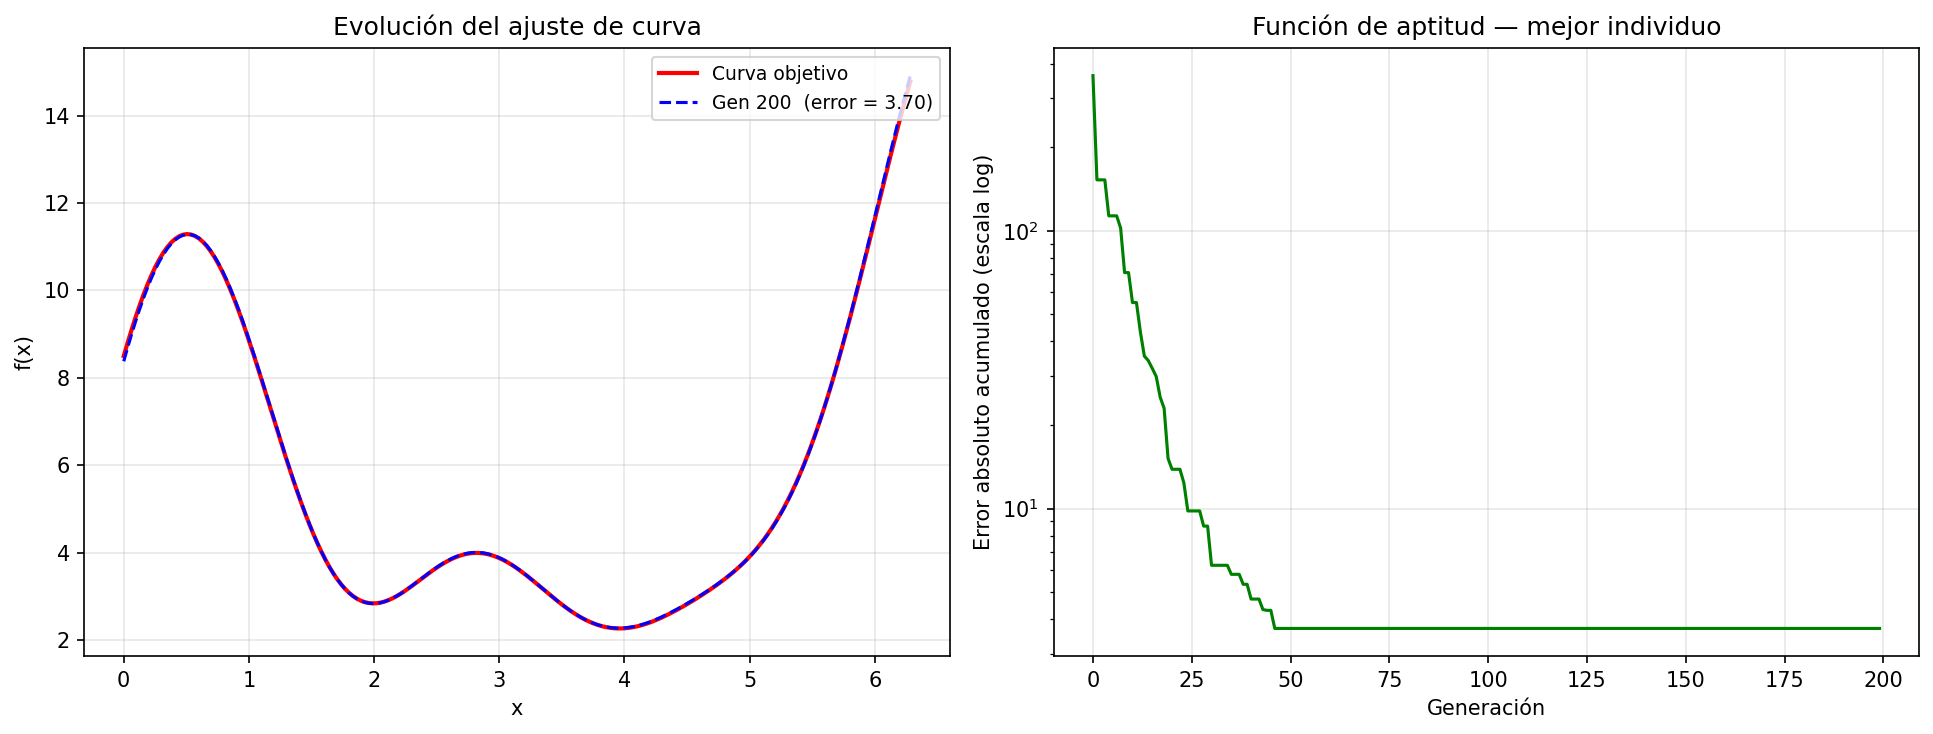
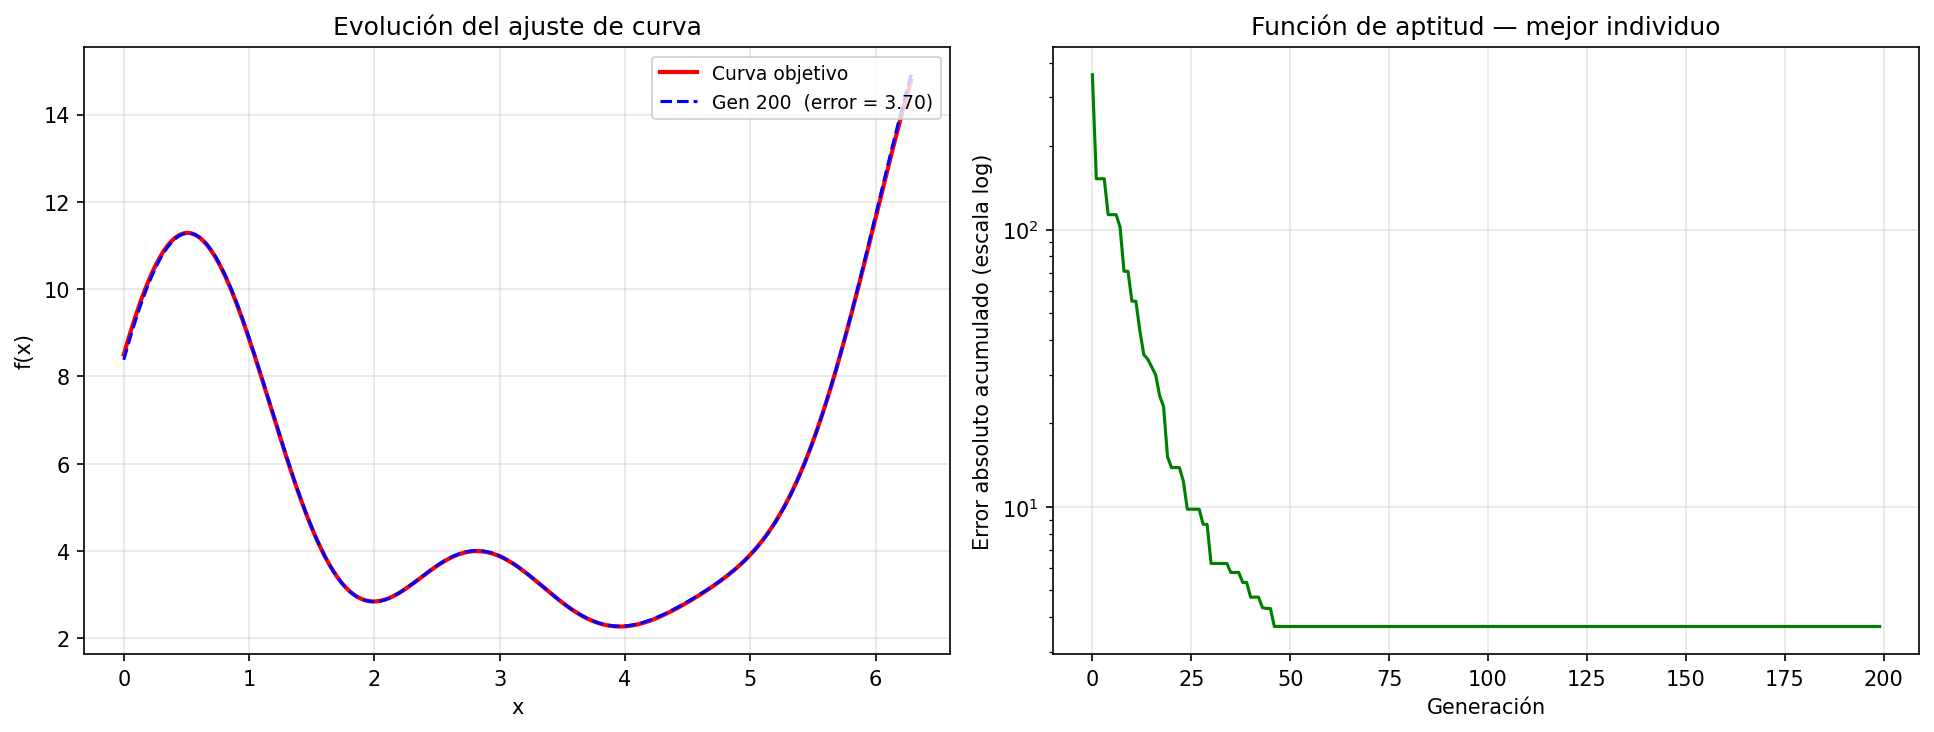
Actualizacion, 2a. corrida

diff --git a/ag_ajuste_curva.py b/ag_ajuste_curva.py
@@ -23,7 +23,6 @@ Operadores implementados:
 
 import numpy as np
 import matplotlib.pyplot as plt
-import matplotlib.gridspec as gridspec
 
 # ═══════════════════════════════════════════════════════════════════
 #  CONFIGURACIÓN
@@ -167,11 +166,14 @@ def ejecutar_ag():
 
     historial = []          # aptitud del mejor individuo por generación
 
-    # ── Figura ────────────────────────────────────────────────────
-    fig = plt.figure(figsize=(13, 5))
-    gs  = gridspec.GridSpec(1, 2, figure=fig)
-    ax1 = fig.add_subplot(gs[0])    # panel izquierdo:  ajuste de curva
-    ax2 = fig.add_subplot(gs[1])    # panel derecho:    función de aptitud
+    # ── Ventana 1: ajuste de curva ────────────────────────────────
+    fig1, ax1 = plt.subplots(figsize=(7, 5))
+    fig1.canvas.manager.set_window_title('Ventana 1 — Ajuste de curva')
+
+    # ── Ventana 2: función de aptitud ─────────────────────────────
+    fig2, ax2 = plt.subplots(figsize=(7, 5))
+    fig2.canvas.manager.set_window_title('Ventana 2 — Función de aptitud')
+
     plt.ion()
 
     # ── Bucle generacional ────────────────────────────────────────
@@ -207,28 +209,48 @@ def ejecutar_ag():
 
         # e) Visualización en tiempo real
         if gen % 5 == 0 or gen == N_GENERACIONES - 1:
+            error_actual = historial[-1]
+
+            # — Ventana 1: curva generada vs curva objetivo —
             ax1.clear()
             ax1.plot(X_EVAL, Y_OBJETIVO, 'r-',  lw=2.0, label='Curva objetivo')
             ax1.plot(X_EVAL, mejor_curva, 'b--', lw=1.5,
-                     label=f'Gen {gen+1}  (error = {historial[-1]:.2f})')
-            ax1.set_title('Evolución del ajuste de curva')
+                     label=f'Mejor individuo — Gen {gen + 1}')
+            ax1.set_title('Ajuste de curva — individuo más apto por generación')
             ax1.set_xlabel('x')
             ax1.set_ylabel('f(x)')
             ax1.legend(loc='upper right', fontsize=9)
             ax1.grid(True, alpha=0.3)
+            fig1.tight_layout()
+            fig1.canvas.draw()
 
+            # — Ventana 2: función de aptitud + etiqueta del error —
             ax2.clear()
-            ax2.semilogy(historial, 'g-', lw=1.5)
-            ax2.set_title('Función de aptitud — mejor individuo')
+            ax2.plot(range(1, len(historial) + 1), historial, 'g-', lw=1.5)
+            ax2.set_title('Función de aptitud — individuo más apto')
             ax2.set_xlabel('Generación')
-            ax2.set_ylabel('Error absoluto acumulado (escala log)')
+            ax2.set_ylabel('|Error absoluto| acumulado')
             ax2.grid(True, alpha=0.3)
 
-            plt.tight_layout()
+            # Etiqueta de error publicada sobre la gráfica
+            ax2.text(
+                0.98, 0.95,
+                f'Generación: {gen + 1}\nError: {error_actual:.4f}',
+                transform=ax2.transAxes,
+                fontsize=11, fontweight='bold',
+                verticalalignment='top', horizontalalignment='right',
+                bbox=dict(boxstyle='round,pad=0.4', facecolor='lightyellow',
+                          edgecolor='gray', alpha=0.9),
+            )
+
+            fig2.tight_layout()
+            fig2.canvas.draw()
+
             plt.pause(0.001)
 
     plt.ioff()
-    plt.savefig('resultado_ag_ajuste_curva.png', dpi=150, bbox_inches='tight')
+    fig1.savefig('resultado_ventana1_curva.png',   dpi=150, bbox_inches='tight')
+    fig2.savefig('resultado_ventana2_aptitud.png', dpi=150, bbox_inches='tight')
     plt.show()
 
     # ── Reporte final ─────────────────────────────────────────────
@@ -250,7 +272,9 @@ def ejecutar_ag():
     reduccion = (1 - historial[-1] / historial[0]) * 100
     print(f"  Reducción del error:          {reduccion:>9.1f} %")
     print("═" * 54)
-    print(f"\n  Gráfica guardada en: resultado_ag_ajuste_curva.png")
+    print(f"\n  Gráficas guardadas en:")
+    print(f"    resultado_ventana1_curva.png")
+    print(f"    resultado_ventana2_aptitud.png")
 
 
 # ═══════════════════════════════════════════════════════════════════